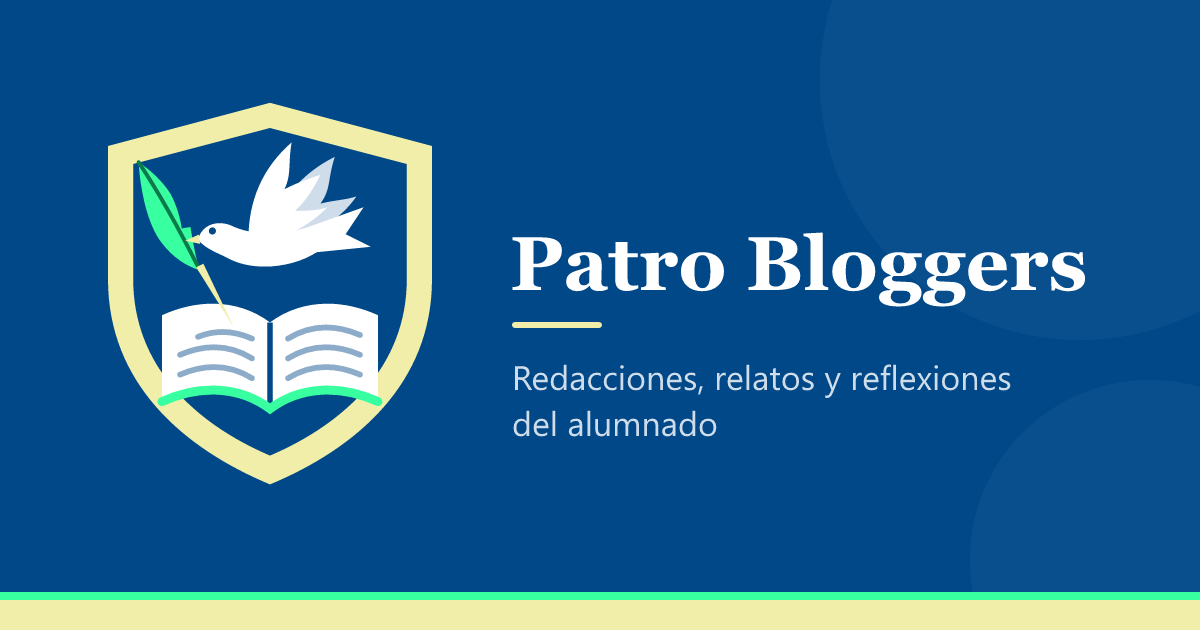
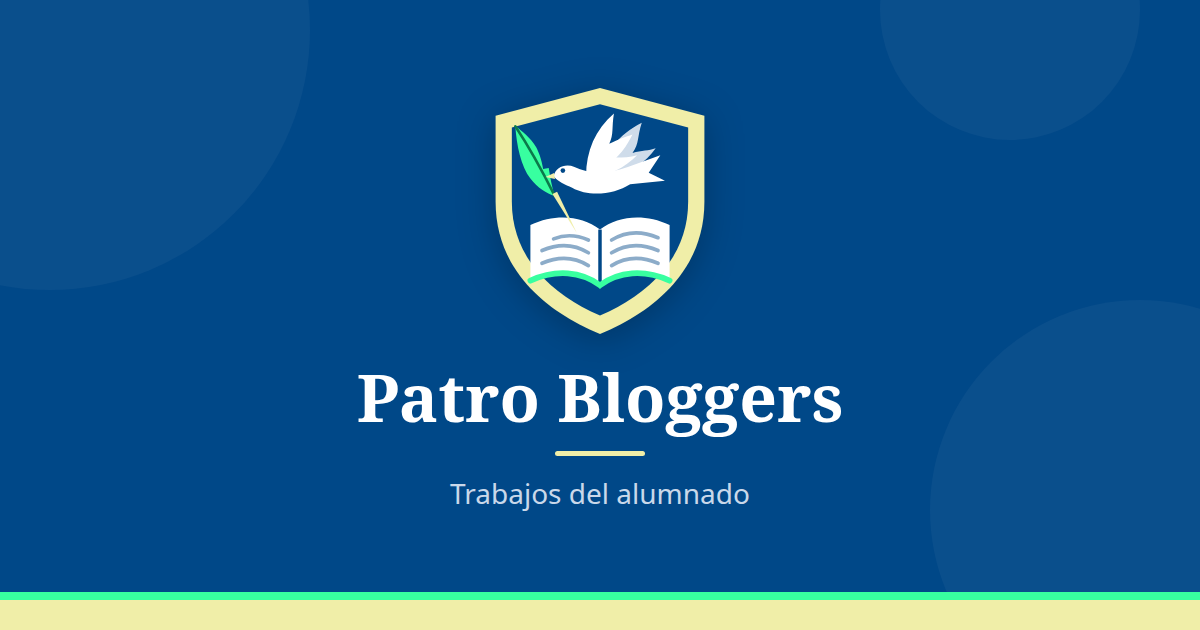
Nueva imagen para compartir, centrada para el recorte de WhatsApp
El escudo y el nombre van en el cuadrado central, que es lo que WhatsApp
enseña a veces. Plantilla en scripts/og-image.html. La imagen se pide con
?v=2 para saltarse la caché de las apps, y en la imagen genérica se indican
og:image:width, og:image:height y og:image:alt.

Changed region(s): [[0.0925, 0.1508, 0.8325, 0.7841], [0.4008, 0.1206, 0.925, 0.5429], [0.37, 0.754, 0.6167, 0.8143]]

diff --git a/scripts/og-image.html b/scripts/og-image.html
@@ -1,0 +1,92 @@
+<!doctype html>
+<!--
+  Plantilla de public/og-image.png, la imagen genérica que se ve al compartir un enlace.
+  Todo lo importante va en el cuadrado central (630x630): WhatsApp a veces muestra solo ese recorte.
+  Para regenerarla, capturar esta página a 1200x630 (p. ej. con Chromium headless) y guardar
+  la captura en public/og-image.png. Después, subir el ?v= de la imagen en BaseLayout.astro
+  para que las apps no sigan usando la antigua.
+-->
+<html lang="es">
+  <head>
+    <meta charset="utf-8" />
+    <link
+      rel="stylesheet"
+      href="https://fonts.googleapis.com/css2?family=Noto+Serif:wght@700&family=Noto+Sans:wght@400&display=block"
+    />
+    <style>
+      html,
+      body {
+        margin: 0;
+      }
+
+      .og {
+        position: relative;
+        width: 1200px;
+        height: 630px;
+        overflow: hidden;
+        background: #004888;
+        display: flex;
+        flex-direction: column;
+        align-items: center;
+        justify-content: center;
+        /* Centrado en el espacio que dejan libre las franjas */
+        padding-bottom: 38px;
+        box-sizing: border-box;
+        font-family: 'Noto Sans', sans-serif;
+        color: #fff;
+      }
+
+      /* Decoración: puede quedar fuera del recorte cuadrado */
+      .circle {
+        position: absolute;
+        border-radius: 50%;
+        background: rgb(255 255 255 / 0.04);
+      }
+
+      .stripes {
+        position: absolute;
+        inset: auto 0 0;
+        height: 38px;
+        background: linear-gradient(#38ffa0 0 8px, #f0eea8 8px);
+      }
+
+      .logo {
+        height: 260px;
+        filter: drop-shadow(0 6px 18px rgb(0 0 0 / 0.25));
+      }
+
+      h1 {
+        margin: 22px 0 0;
+        font-family: 'Noto Serif', serif;
+        font-size: 66px;
+        line-height: 1;
+      }
+
+      .rule {
+        width: 90px;
+        height: 5px;
+        margin: 22px 0 18px;
+        border-radius: 3px;
+        background: #f0eea8;
+      }
+
+      p {
+        margin: 0;
+        font-size: 28px;
+        color: #c9d8ea;
+      }
+    </style>
+  </head>
+  <body>
+    <div class="og">
+      <div class="circle" style="width: 520px; height: 520px; left: -210px; top: -230px"></div>
+      <div class="circle" style="width: 420px; height: 420px; right: -150px; top: 300px"></div>
+      <div class="circle" style="width: 260px; height: 260px; right: 60px; top: -120px"></div>
+      <img class="logo" src="../public/logo.svg" alt="" />
+      <h1>Patro Bloggers</h1>
+      <div class="rule"></div>
+      <p>Trabajos del alumnado</p>
+      <div class="stripes"></div>
+    </div>
+  </body>
+</html>
